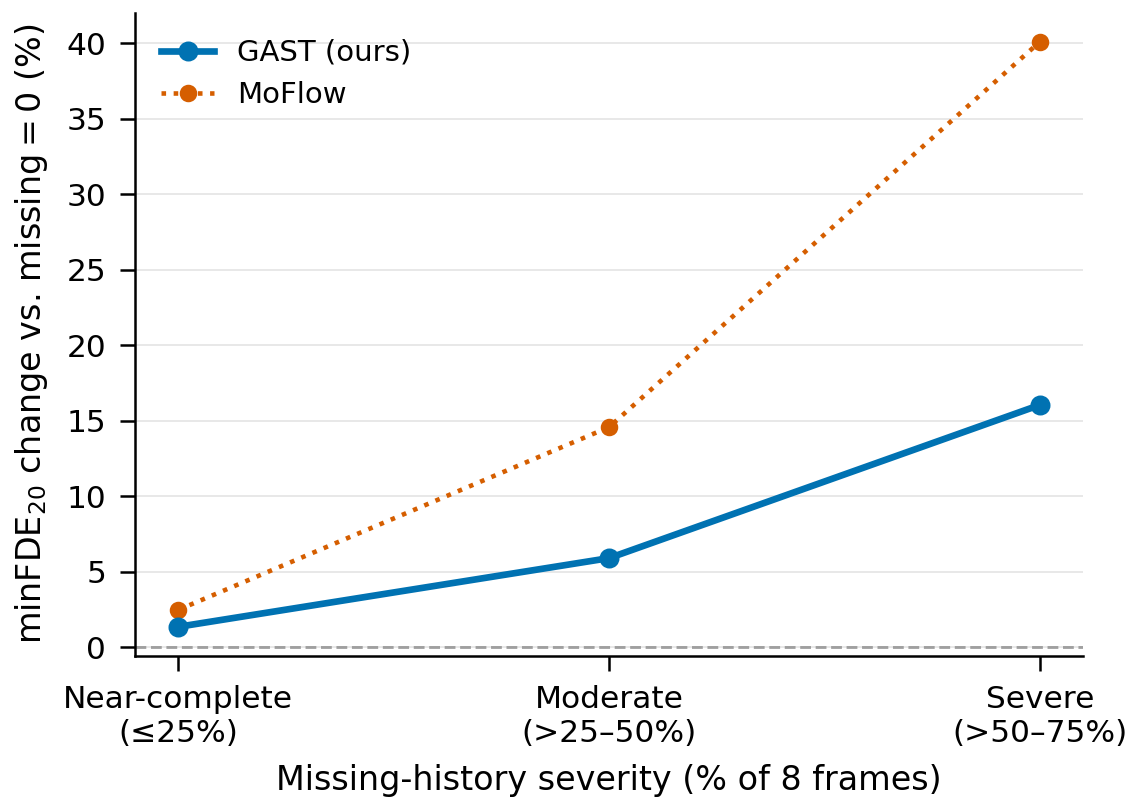
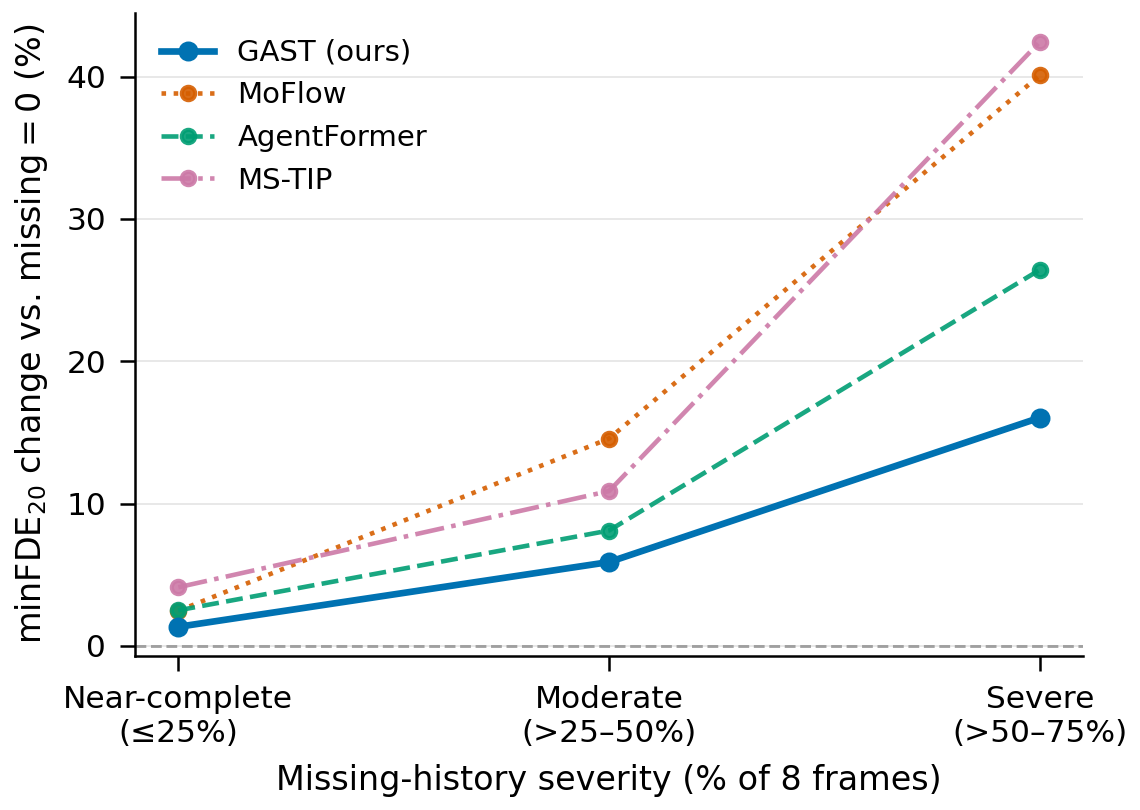
feat(figures): 缺失退化图扩为四方法对比，论文脚本移出版本控制
- gen_results_figures.py：退化图新增 AgentFormer 与 MS-TIP，颜色/线型分离，
  突出 GAST 曲线；同步重生成 missing_severity_degradation 的 PDF/PNG
- .gitignore：新增 .paper_review/、scripts/insert_*.py、scripts/rewrite_*.py
- 写论文与配图脚本统一移至 docs/论文/tools/（该目录整体忽略）

diff --git a/docs/tools/gen_results_figures.py b/docs/tools/gen_results_figures.py
@@ -45,6 +45,19 @@ LINE_COLOR = {
 LINE_STYLE = {
     "GAST": "-", "MoFlow": ":",
 }
+SEVERITY_METHODS = ["GAST", "MoFlow", "AgentFormer", "MS-TIP"]
+SEVERITY_LINE_COLOR = {
+    "GAST": "#0072B2",
+    "MoFlow": "#D55E00",
+    "AgentFormer": "#009E73",
+    "MS-TIP": "#CC79A7",
+}
+SEVERITY_LINE_STYLE = {
+    "GAST": "-",
+    "MoFlow": ":",
+    "AgentFormer": "--",
+    "MS-TIP": "-.",
+}
 DISPLAY = {
     "GAST": "GAST (ours)",
     "GAST ablation (standard decoder)": "GAST w/o endpoint-guided decoding",
@@ -187,7 +200,7 @@ def fig_severity_degradation(data, outdir):
     fig, ax = plt.subplots(figsize=(3.8, 2.7), dpi=300,
                            constrained_layout=True)
     positions = np.arange(len(MISSING_SEVERITY_BINS))
-    for method in MISSING_METHODS:
+    for method in SEVERITY_METHODS:
         values = [
             severity_macro(
                 data, method, severity_key,
@@ -200,13 +213,14 @@ def fig_severity_degradation(data, outdir):
         ax.plot(
             positions,
             values,
-            linestyle=LINE_STYLE[method],
-            color=LINE_COLOR[method],
+            linestyle=SEVERITY_LINE_STYLE[method],
+            color=SEVERITY_LINE_COLOR[method],
             marker="o",
             ms=3.8 if method == "GAST" else 3.2,
             lw=1.6 if method == "GAST" else 1.1,
             label=DISPLAY.get(method, method),
             zorder=5 if method == "GAST" else 3,
+            alpha=1.0 if method == "GAST" else 0.9,
         )
     ax.axhline(0.0, color="gray", lw=0.7, ls="--", alpha=0.7)
     ax.set_xticks(positions)
